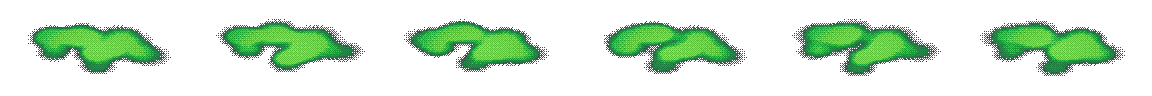
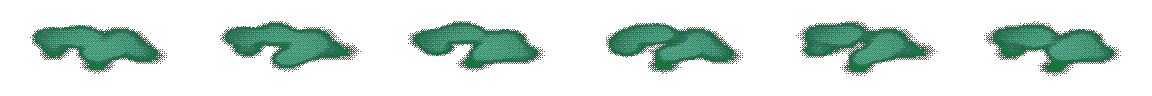
fix: nevoa do Orlok na altura do peito, mais rala e dessaturada
Claude-Session: https://claude.ai/code/session_01UQft5cjTMQpGfbiu4GhsG2

diff --git a/scripts/player/BloodBlessingRuntime.cs b/scripts/player/BloodBlessingRuntime.cs
@@ -528,7 +528,9 @@ public partial class BloodBlessingRuntime : Node
 
     // Névoa em pixel art (tools/pixel_art/pestilence_cloud): 6 quadros de 192x96 em loop, deitada no chão como as poças.
     // 192 px a PixelSize = 6,3 m de ponta a ponta: a folha escala para o raio da nuvem. Opacidade em PestilenceCloudAlpha.
-    private const float PestilenceCloudAlpha = 0.6f;
+    private const float PestilenceCloudAlpha = 0.4f;
+    private const float PestilenceCloudGroundAlpha = 0.22f;
+    private const float PestilenceCloudChestHeight = 0.9f;
     private static Texture2D _pestilenceCloudSheet;
 
     private Node3D BuildPestilenceCloudSprite(float radius)
@@ -541,22 +543,30 @@ public partial class BloodBlessingRuntime : Node
         var root = new Node3D { Name = "PestilenceCloud", Rotation = new Vector3(0.0f, yaw, 0.0f) };
         var sizeScale = radius / (96.0f * PlayerSpriteVisual.PixelSize);
         root.Scale = new Vector3(sizeScale, 1.0f, sizeScale * stretch);
-        var sprite = new Sprite3D
+        // Duas camadas: uma rala rente ao chão e a principal na altura do peito, onde a névoa de verdade fica.
+        var sprites = new List<Sprite3D>();
+        foreach (var (height, alpha, frameOffset) in new[] { (0.04f, PestilenceCloudGroundAlpha, 3), (PestilenceCloudChestHeight, PestilenceCloudAlpha, 0) })
         {
-            Texture = _pestilenceCloudSheet,
-            Hframes = 6,
-            PixelSize = PlayerSpriteVisual.PixelSize,
-            TextureFilter = BaseMaterial3D.TextureFilterEnum.Nearest,
-            AlphaCut = SpriteBase3D.AlphaCutMode.Disabled,
-            Modulate = new Color(1.0f, 1.0f, 1.0f, PestilenceCloudAlpha),
-            Shaded = false,
-            DoubleSided = false,
-            CastShadow = GeometryInstance3D.ShadowCastingSetting.Off,
-            RotationDegrees = new Vector3(-90.0f, 0.0f, 0.0f)
-        };
-        root.AddChild(sprite);
-        var tween = sprite.CreateTween().SetLoops();
-        tween.TweenMethod(Callable.From<float>(t => sprite.Frame = Mathf.Clamp((int)t, 0, 5)), 0.0f, 6.0f, 6.0f / 5.0f);
+            var sprite = new Sprite3D
+            {
+                Texture = _pestilenceCloudSheet,
+                Hframes = 6,
+                PixelSize = PlayerSpriteVisual.PixelSize,
+                TextureFilter = BaseMaterial3D.TextureFilterEnum.Nearest,
+                AlphaCut = SpriteBase3D.AlphaCutMode.Disabled,
+                Modulate = new Color(1.0f, 1.0f, 1.0f, alpha),
+                Shaded = false,
+                DoubleSided = false,
+                CastShadow = GeometryInstance3D.ShadowCastingSetting.Off,
+                RotationDegrees = new Vector3(-90.0f, 0.0f, 0.0f),
+                Position = Vector3.Up * height
+            };
+            root.AddChild(sprite);
+            sprites.Add(sprite);
+            var offset = frameOffset;
+            var tween = sprite.CreateTween().SetLoops();
+            tween.TweenMethod(Callable.From<float>(t => sprite.Frame = (Mathf.Clamp((int)t, 0, 5) + offset) % 6), 0.0f, 6.0f, 6.0f / 5.0f);
+        }
         return root;
     }
 

diff --git a/tools/pixel_art/pestilence_cloud/generate_pestilence_cloud.py b/tools/pixel_art/pestilence_cloud/generate_pestilence_cloud.py
@@ -5,7 +5,7 @@ from pathlib import Path
 from PIL import Image
 
 OUT = Path(__file__).resolve().parents[3] / "assets/pixel_art/effects/pestilence_cloud/pestilence_cloud_sheet.png"
-RAMP = [tuple(int(h[i:i + 2], 16) for i in (0, 2, 4)) for h in ("24523b", "1a7a3e", "14a02e", "59c135", "9cdb43")]
+RAMP = [tuple(int(h[i:i + 2], 16) for i in (0, 2, 4)) for h in ("24523b", "1a7a3e", "23674e", "328464", "5daf8d")]
 W, H, FRAMES = 192, 96, 6
 BAYER = [[0, 8, 2, 10], [12, 4, 14, 6], [3, 11, 1, 9], [15, 7, 13, 5]]
 rnd = random.Random(7)
@@ -26,7 +26,7 @@ def frame(k):
             dens = min(dens, 1.6) / 1.6
             dens *= max(0.0, 1 - (((x - W / 2) / (W / 2 - 2)) ** 2 + ((y - H / 2) / (H / 2 - 2)) ** 2)) ** 0.5
             lvl = dens * 4.2 + (BAYER[y % 4][x % 4] / 16 - 0.5) * 1.4
-            if lvl < 0.9:
+            if lvl < 1.25:
                 continue
             img.putpixel((x, y), RAMP[min(4, int(lvl))] + (255,))
     return img

diff --git a/assets/pixel_art/SOURCE.md b/assets/pixel_art/SOURCE.md
@@ -106,4 +106,4 @@ Círculo de ritual (pentagrama) que marca no chão onde um monstro vai surgir no
 Ícones das 8 famílias de herança de sangue (Dracul, Bathory, Orlok, Karnstein, Strigoi, Vârcolac, Liaozhai, Nachtalb), 32x32, paleta AAP-64, alfa binário. Arte própria, gerada por `tools/pixel_art/hud/draw_family_icons.py` (sem pacote de terceiros). Substituem os antigos `images/bloodBoons/<familia>-icon.png` nas portas, na oferta de bênçãos, na barra e no compêndio.
 
 ## effects/pestilence_cloud
-Gerada por `tools/pixel_art/pestilence_cloud/generate_pestilence_cloud.py` (Pillow, rampa verde da AAP-64). `pestilence_cloud_sheet.png`: 6 quadros de 192x96 (projeção 2:1) em loop, da nuvem de pestilência do Orlok (`BloodBlessingRuntime.SpawnPestilenceCloud`, só no 2D). Arte própria.
+Gerada por `tools/pixel_art/pestilence_cloud/generate_pestilence_cloud.py` (Pillow, rampa verde-acinzentada da AAP-64). `pestilence_cloud_sheet.png`: 6 quadros de 192x96 (projeção 2:1) em loop, da nuvem de pestilência do Orlok (`BloodBlessingRuntime.SpawnPestilenceCloud`, só no 2D). Arte própria.
